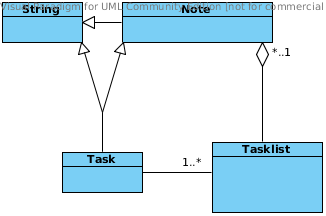
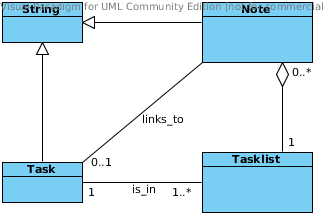
changed entity diagram and added description of requirement properties

diff --git a/doc/specific_requirements.tex b/doc/specific_requirements.tex
@@ -1,9 +1,32 @@
+This section contains all software requirements both functional and non-functional.
+A requirement has the following properties:
+\begin{itemize}
+	\item[\bf{Requirement ID}] Uniquely identifies requirement within all TaskList documents.
+	\item[\bf{Title}] Gives the requirement a symbolic name.
+	\item[\bf{Description}] The definition of the requirement.
+	\item[\bf{Priority}] Defines the order in which the requirements should be implemented. Priorities are designated from highest to lowest.
+	Possible values are 1 (first to implement), 2 and 3 (last to implement).
+	\item[\bf{Risk}] Specifies risk of not implementing this requirement. It shows how the particular requirement is critical to the system.
+	there are the following risks levels and associated impact to the system if the requirement is not implemented or implemented incorrectly.
+		\begin{itemize}
+			\item {\bf Critical (C)}  will break the main functionality of the system. The system can not be used if this requirement is not implemented.
+			\item {\bf High (H)} will impact the main functionality of the system. Some function of the system could be inaccessible, but the 
+			system can be generally used.
+			\item {\bf Medium (M)} will impact some systems features, but not the main functionality. System can be used with some limitation.
+			\item {\bf Low (L)} the system can be used without limitation, but with some workarounds.
+
+		\end{itemize}
+
+  \end{itemize}
+
+
 \subsection{Functional Requirements}
 \label{requirements:functional}
-%Gerd
+	
+
     \subsubsection{Entity Diagram}
     The following diagram shows all defined entities from the requirements above and their relations.
-    As we can see a Task can either be modeled as a string or - if its a more complex task - modeled as an entirely new note.
+    As we can see a Task is basically modeled as a string and - if its a more complex task - can link to other notes.
     \begin{figure}[h]
     	% TODO remove the grey licensing text in the diagram by using the software with a valid license key
 	    \centering
